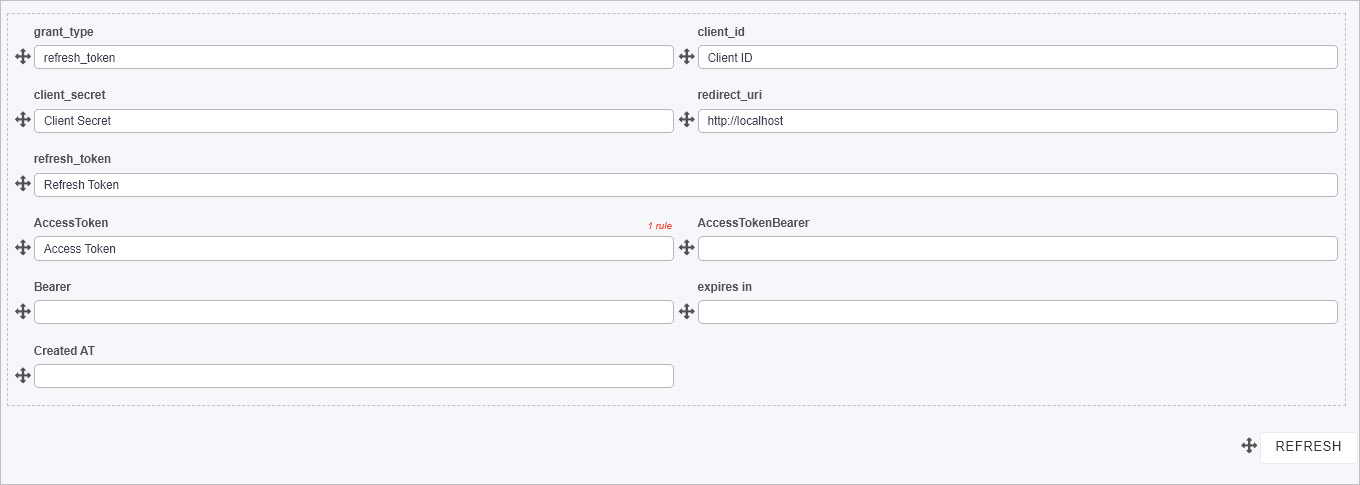
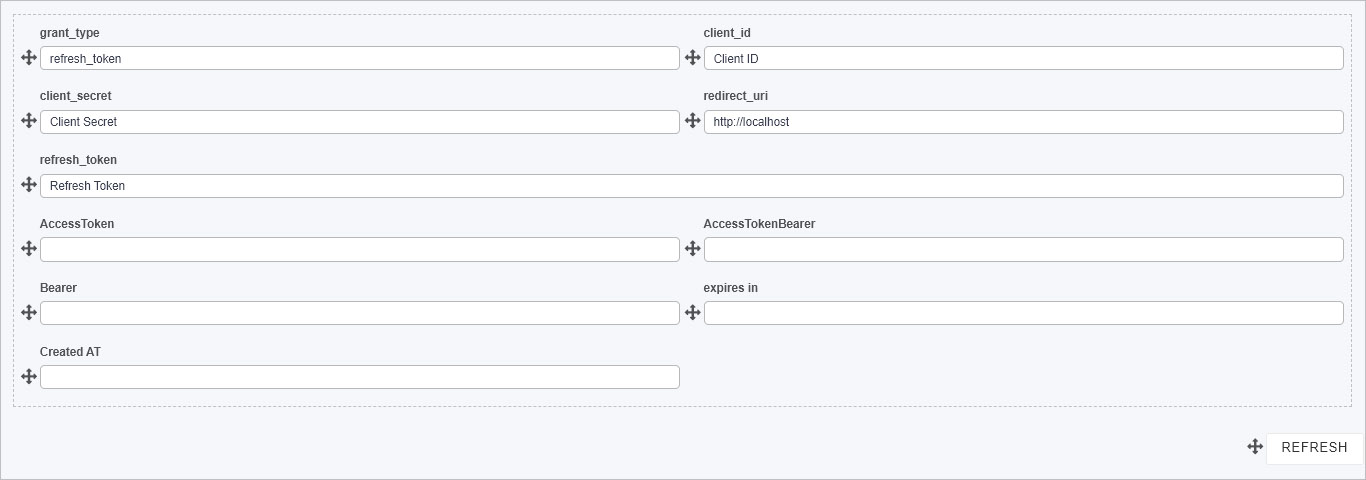
Update to rest access token

diff --git a/content/docs/platform/connectors/rest/rest-access-token.md b/content/docs/platform/connectors/rest/rest-access-token.md
@@ -30,45 +30,41 @@ Once a datasource is created, a process is created which will contain fields for
 
 As shown in the image above there are five parameters in the request body which need to be populated, and **each of these parameters must correspond to a field** in a process. 
 
-In the response body there are five parameters : `access_token`, `token_type`, `expires_in`, `refresh_token` and `created_at`, although only `access_token`, `expires_in` and `created_at` is needed. ********? Separately, I have gotten the Access Token so I can enter these details into the designer directly.*********?
+In the response body there are five parameters : `access_token`, `token_type`, `expires_in`, `refresh_token` and `created_at`, although only `access_token`, `expires_in` and `created_at` is needed. ********? Separately, I have gotten the Access Token so I can enter these details into the designer directly. How*********?
 
 A form is created using [Kianda Designer](docs/platform/application-designer/designer/) with **textbox fields** as well as a button called **Refresh** as follows:
 
 ![Response parameters corresponding to form fields to hold values](/images/parameters-as-fields.jpg)
 
-
+Form rules are applied to fields in the form in the next section.
 
 #### Form rules ####
 
 Rules are applied to both the AccessToken textbox field and the Refresh button as follows:
 
-1. On the **Refresh button** add a **Data rule** > **Set Form Field** which will be used to clear the AccessToken field. Map a 'blank' value to the Access Token field as follows:
+1. On the **Refresh button** add a **Data rule** > **Set Form Field** which will be used to clear the AccessToken field. Give the rule a title for example 'Clear Access Token' and map a 'blank' value to the Access Token field as shown below:
 
    ![Set form field rule to Clear Access Token field](/images/clear-access-token.jpg)
 
-2. On the same **Refresh button** add a **Data rule** > **Create item** which will be used to invoke the REST Service to get a new token and map the response back to the process. 
+2. On the **Refresh button** add a **Data rule** > **Create item** which will be used to invoke the REST Service to get a new token and map the response back to the process. 
 
-   - Within the rule, select the datasource created within [Create a datasource](#create-a-datasource), in the example below 'Sample Rest Service'.
+   - Within the rule, click on **Select data source** and select the datasource created within [Create a datasource](#create-a-datasource), in the example on this page, 'Sample Rest Service'.
 
-   <img src="/images/get-new-token.jpg" alt="Create item rule to get a new token and map response back to a Kianda process" style="zoom:80%;" />
+   - Then select the 'Get/Refresh Auth Token REST Method' as shown below.
 
-3. sdf
+     ![Selecting Get/Refresh Auth Token REST Method in Sample REST Service data source](/images/select-rest-method.jpg)
 
-**2.**   **Create Item –** This rule will invoke the REST Service and map the response back to the process.
+   - Under **Input mapping** map the values from the process into the request body. The left-hand column, **Form field or text**, represents the fields within the process or hard coded values. The right-hand column, **Data source field**, represents the values within the **REST Service,** be it the request header, request body, response header or response body**.** For example choose the form field such as grant_type and then in the data source field drill down to the value you want from the REST method. 
 
-**a.**   Click on the Select data source button. In the following dialog box select the **Rest Service** and select the **Get/Refresh Auth Token REST Method.**
+     <img src="/images/select-data-source-field.jpg" alt="Selecting data source field" style="zoom:80%;" />
 
-![img](file:///C:/Users/CAITRI~1/AppData/Local/Temp/msohtmlclip1/01/clip_image008.jpg)
+   - In addition to the parameters defined with the **REST Service** the **urlPath** can be defined in the process and passed into the datasource. Map the form fields `grant_type`, `client_id`, `client_secret`, `redirect_url` and `refresh token`, into the form fields. 
 
-b.   In the Input mapping, map the values from the process into the request body. The left-hand column, Form field or text, represents the fields within the process or hard coded values. The right-hand column, Data source field, represent the values within the **REST Service,** be it the request header, request body, response header or response body**.** In addition to the parameters defined with the **REST Service** the **urlPath** can be defined in the process and passed into the datasource.
+     <img src="/images/get-new-token.jpg" alt="Create item rule to get a new token and map response back to a Kianda process" style="zoom:80%;" />
 
-![img](file:///C:/Users/CAITRI~1/AppData/Local/Temp/msohtmlclip1/01/clip_image010.jpg)
+   - The **On Success Mapping section** is used to **map the result from the API call back into the process**. Map `access_token`, `refresh_token`, `expires_in` and `created_at`, to the relative form fields. 
 
-![img](file:///C:/Users/CAITRI~1/AppData/Local/Temp/msohtmlclip1/01/clip_image011.png)
-
-c.    The On Success Mapping section is used to map the result from the API call back into the Process. The left-hand column, Form field or text, represents the fields within the process or hard coded values. The right-hand column, Data source field, represent the values within the **REST Service,** be it the request header, request body, response header or response body
-
-![img](file:///C:/Users/CAITRI~1/AppData/Local/Temp/msohtmlclip1/01/clip_image013.jpg)
+3. The 
 
 \3.   The last rule must be a save rule.
 
